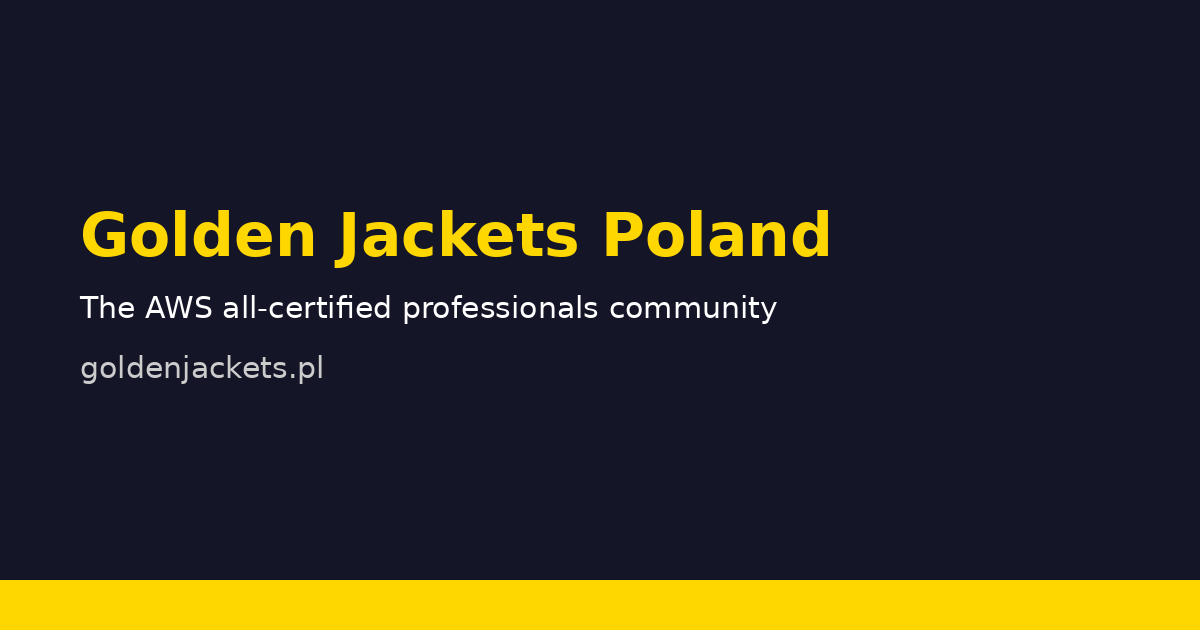
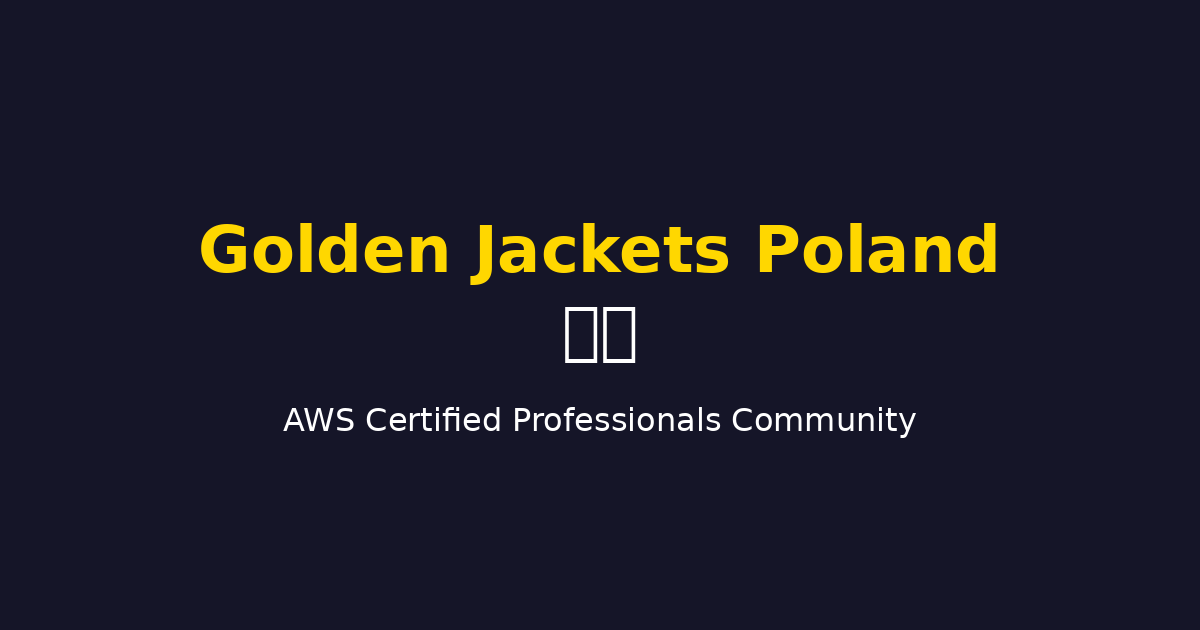
fix: update og-image with Poland branding + fix Get in touch LinkedIn link

diff --git a/index.html b/index.html
@@ -414,7 +414,7 @@
       The Golden Jackets Poland community celebrates cloud leaders who are passionate about learning and committed to helping others succeed. Our members have achieved all active AWS certifications and actively support others on their cloud journey.
     </p>
     <p class="desc">
-      <span data-i18n="getInTouch">Already a Golden Jacket holder from Poland?</span> <a href="#">Get in touch</a> to join the community and be featured on this page.
+      <span data-i18n="getInTouch">Already a Golden Jacket holder from Poland?</span> <a href="https://www.linkedin.com/company/golden-jackets-poland" target="_blank">Get in touch</a> to join the community and be featured on this page.
     </p>
   </section>
   <div style="text-align:center;padding:5px 0;">
